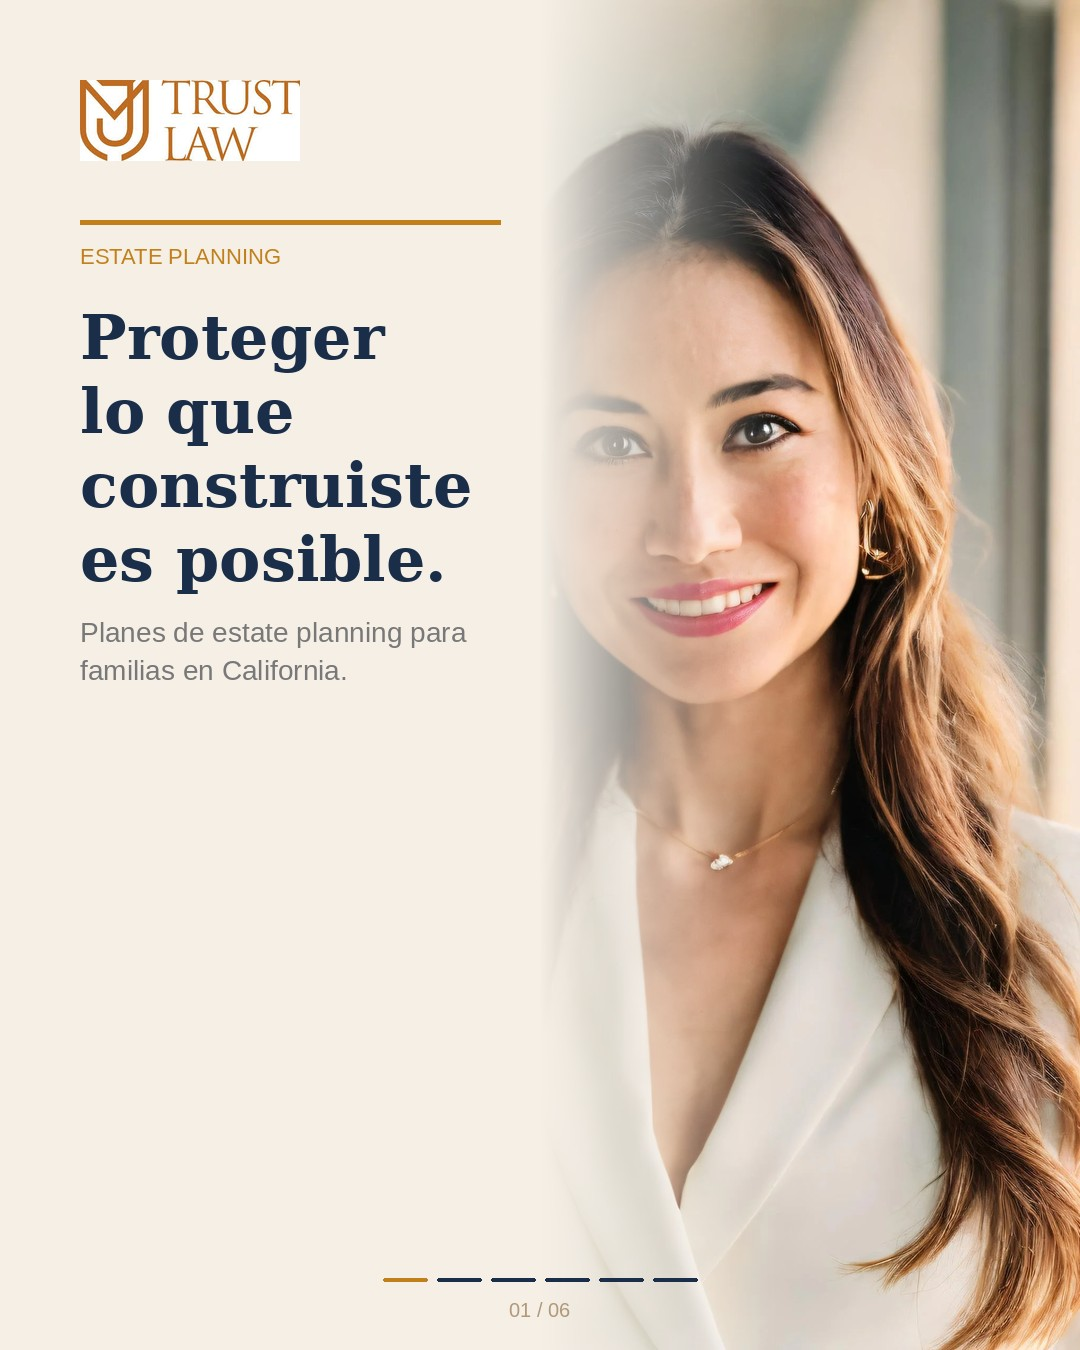
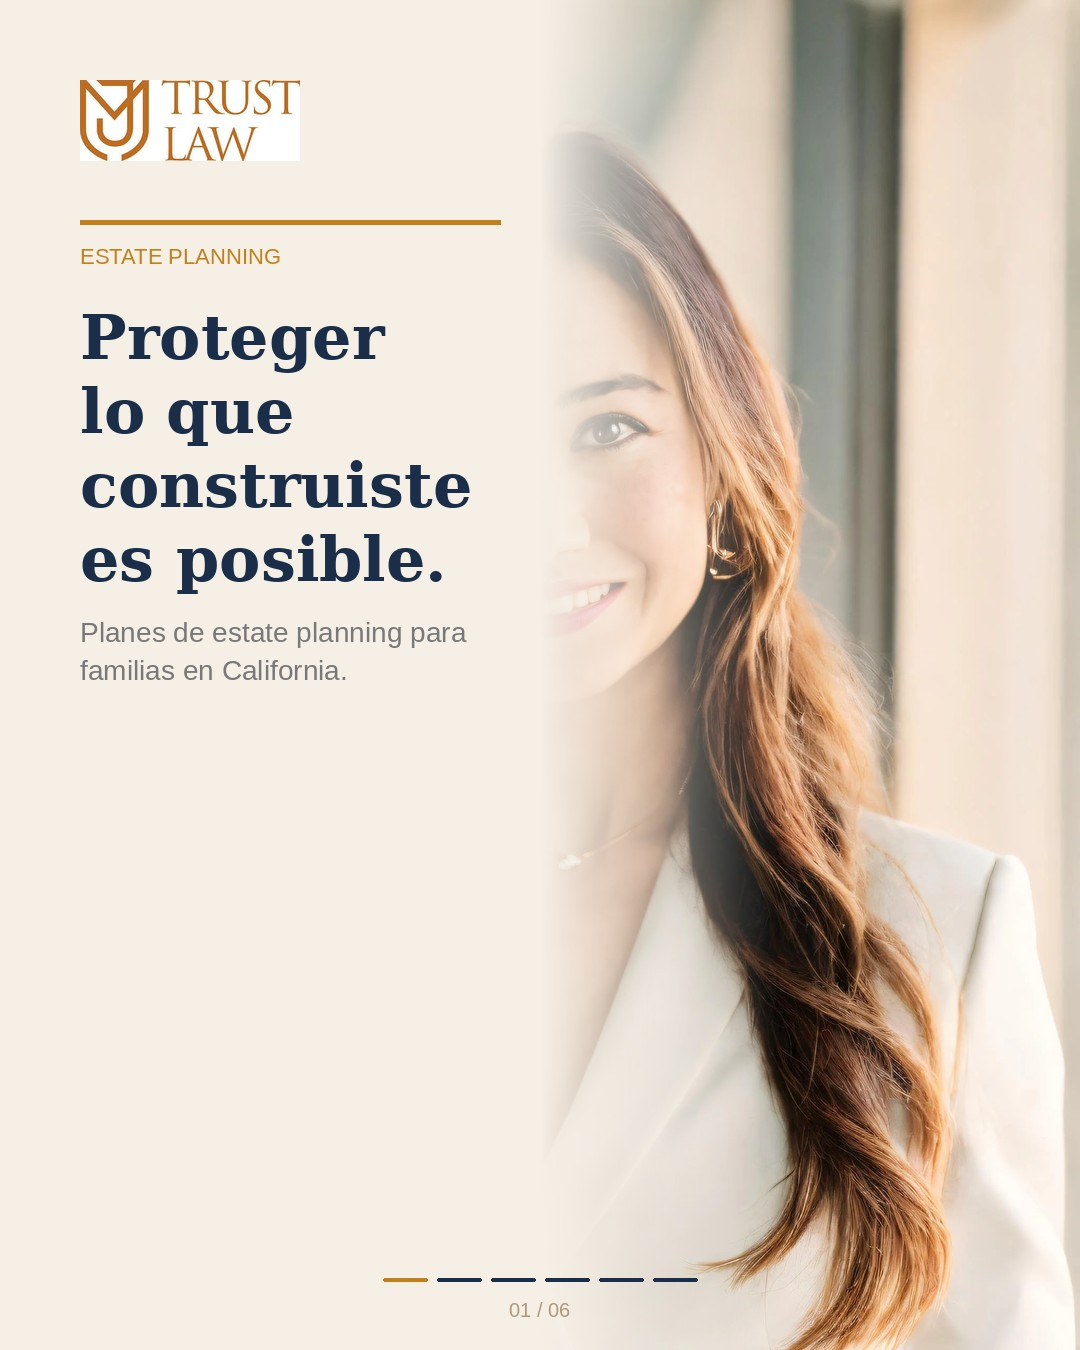
Shift attorney photo to right edge — no more face cutoff on slide 1

diff --git a/carousel-html/carousel.html b/carousel-html/carousel.html
@@ -85,7 +85,7 @@ body {
   <div style="position:absolute;right:0;top:0;width:72%;height:100%;">
     <div style="width:100%;height:100%;
       background-image:url('https://raw.githubusercontent.com/panchobarberis-maker/Vuelta-rapida/main/mjtrust%20law/10.webp');
-      background-size:cover;background-position:center top;"></div>
+      background-size:cover;background-position:right top;"></div>
   </div>
 
   <!-- panel crema izquierdo — gradiente hacia la derecha para mezclar con la foto -->

diff --git a/preview_slides.py b/preview_slides.py
@@ -95,7 +95,7 @@ def slide1():
         new_w = int(orig_w * scale)
         new_h = int(orig_h * scale)
         photo = photo.resize((new_w, new_h), Image.LANCZOS)
-        cx = (new_w - pw) // 2
+        cx = new_w - pw  # alinear al borde derecho de la foto
         region = photo.crop((cx, 0, cx + pw, H))
         x_off = W - pw
         img.paste(region, (x_off, 0), region)
